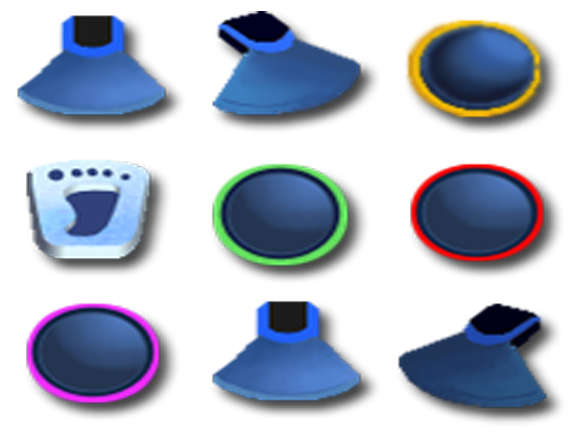
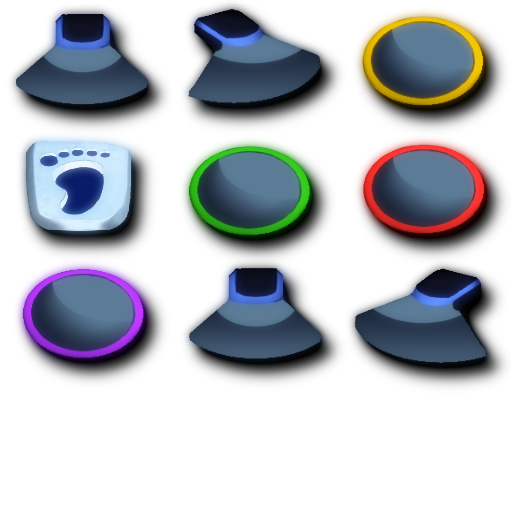
#34173 パッド画像のサイズを最適化し、画像をいじった。幅も少し小さくなったのでセンタリングの際に0.75倍しないようにした。
git-svn-id: http://svn.osdn.jp/svnroot/dtxmania/trunk@895 16f42ceb-6dc6-49c8-ba94-f2d53467949d

diff --git a/DTXManiaプロジェクト/コード/ステージ/07.演奏/ドラム画面/CAct演奏Drumsパッド.cs b/DTXManiaプロジェクト/コード/ステージ/07.演奏/ドラム画面/CAct演奏Drumsパッド.cs
@@ -14,15 +14,15 @@ namespace DTXMania
 		public CAct演奏Drumsパッド()
 		{
 			this.st基本位置 = new ST基本位置[ 9 ] {
-				new ST基本位置(  22 * 3 - 66,  0, new Rectangle( (int) ( 0 * Scale.X ), (int) ( 0 * Scale.Y ), (int) ( 0x40 * Scale.X ), (int) ( 0x40 * Scale.Y ) ) ),
-				new ST基本位置(  61 * 3 - 66, 11, new Rectangle( (int) ( 0x40 * Scale.X ), (int) ( 0 * Scale.Y ), (int) ( 0x40 * Scale.X ), (int) ( 0x40 * Scale.Y ) ) ),
-				new ST基本位置(  96 * 3 - 66,  8, new Rectangle( (int) ( 0x80 * Scale.X ), (int) ( 0 * Scale.Y ), (int) ( 0x40 * Scale.X ), (int) ( 0x40 * Scale.Y ) ) ),
-				new ST基本位置( 138 * 3 - 66,  7, new Rectangle( (int) ( 0 * Scale.X ), (int) ( 0x40 * Scale.Y ), (int) ( 0x40 * Scale.X ), (int) ( 0x40 * Scale.Y ) ) ),
-				new ST基本位置( 179 * 3 - 66,  0, new Rectangle( (int) ( 0x40 * Scale.X ), (int) ( 0x40 * Scale.Y ), (int) ( 0x40 * Scale.X ), (int) ( 0x40 * Scale.Y ) ) ),
-				new ST基本位置( 212 * 3 - 66,  5, new Rectangle( (int) ( 0x80 * Scale.X ), (int) ( 0x40 * Scale.Y ), (int) ( 0x40 * Scale.X ), (int) ( 0x40 * Scale.Y ) ) ),
-				new ST基本位置( 250 * 3 - 66, 15, new Rectangle( (int) ( 0 * Scale.X ), (int) ( 0x80 * Scale.Y ), (int) ( 0x40 * Scale.X ), (int) ( 0x40 * Scale.Y ) ) ),
-				new ST基本位置( 282 * 3 - 66,  0, new Rectangle( (int) ( 0x40 * Scale.X ), (int) ( 0x80 * Scale.Y ), (int) ( 0x40 * Scale.X ), (int) ( 0x40 * Scale.Y ) ) ),
-				new ST基本位置( 304 * 3 - 66,  8, new Rectangle( (int) ( 0x80 * Scale.X ), (int) ( 0x80 * Scale.Y ), (int) ( 0x40 * Scale.X ), (int) ( 0x40 * Scale.Y ) ) )
+				new ST基本位置(  22 * 3 - 66,  0, new Rectangle( 0, 0, 170, 130 ) ),
+				new ST基本位置(  61 * 3 - 66, 11, new Rectangle( 170, 0, 170, 130 ) ),
+				new ST基本位置(  96 * 3 - 66,  8, new Rectangle( 340, 0, 170, 130 ) ),
+				new ST基本位置( 138 * 3 - 66,  7, new Rectangle( 0, 130, 170, 130 ) ),
+				new ST基本位置( 179 * 3 - 66,  0, new Rectangle( 170, 130, 170, 130 ) ),
+				new ST基本位置( 212 * 3 - 66,  5, new Rectangle( 340, 130, 170, 130 ) ),
+				new ST基本位置( 250 * 3 - 66, 15, new Rectangle( 0, 260, 170, 130) ),
+				new ST基本位置( 282 * 3 - 66,  0, new Rectangle( 170, 260, 170, 130 ) ),
+				new ST基本位置( 304 * 3 - 66,  8, new Rectangle( 340, 260, 170, 130 ) )
 			};
 			base.b活性化してない = true;
 		}
@@ -127,7 +127,7 @@ namespace DTXMania
 					int y = ( this.st基本位置[ index ].y + ( CDTXMania.ConfigIni.bReverse.Drums ? -10 : 0x19e ) ) + this.stパッド状態[ index ].nY座標オフセットdot;
 					if ( this.txパッド != null )
 					{
-						this.txパッド.vc拡大縮小倍率.X = ( CDTXMania.ConfigIni.eドラムレーン表示位置 == Eドラムレーン表示位置.Left ) ? 1.0f : 0.75f;
+						// this.txパッド.vc拡大縮小倍率.X = ( CDTXMania.ConfigIni.eドラムレーン表示位置 == Eドラムレーン表示位置.Left ) ? 1.0f : 0.75f;
 						this.txパッド.t2D描画(
 							CDTXMania.app.Device,
 							x,
@@ -137,7 +137,7 @@ namespace DTXMania
 					}
 					if ( this.tx光るパッド != null )
 					{
-						this.tx光るパッド.vc拡大縮小倍率.X = ( CDTXMania.ConfigIni.eドラムレーン表示位置 == Eドラムレーン表示位置.Left ) ? 1.0f : 0.75f;
+						// this.tx光るパッド.vc拡大縮小倍率.X = ( CDTXMania.ConfigIni.eドラムレーン表示位置 == Eドラムレーン表示位置.Left ) ? 1.0f : 0.75f;
 						this.tx光るパッド.n透明度 = ( this.stパッド状態[ index ].n明るさ * 40 ) + 15;
 						this.tx光るパッド.t2D描画(
 							CDTXMania.app.Device,
